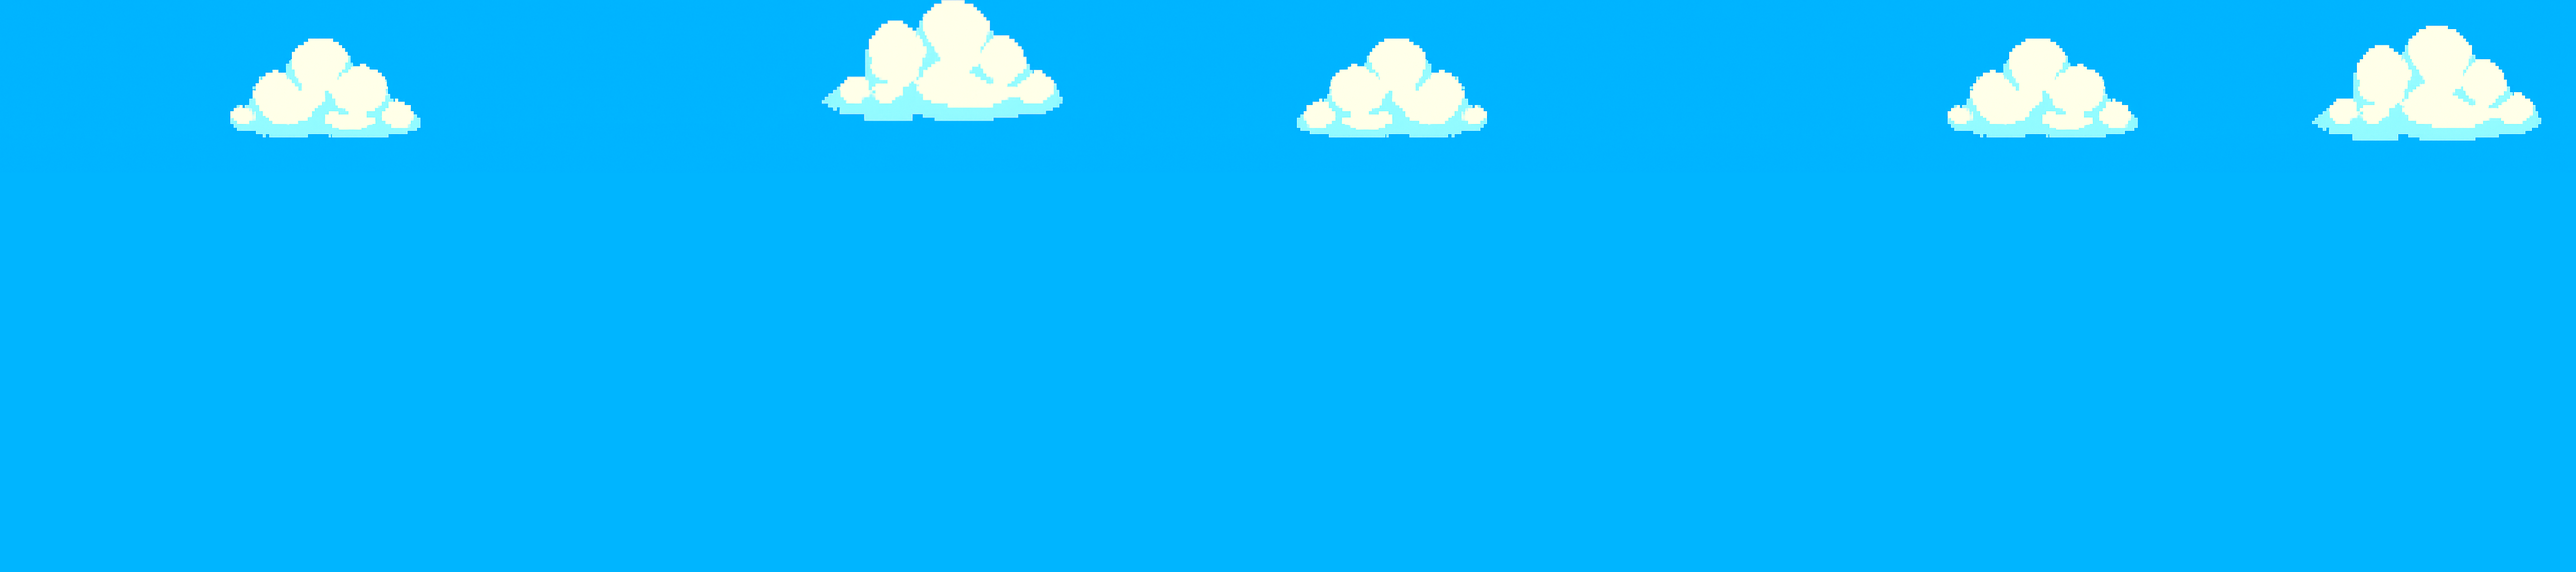
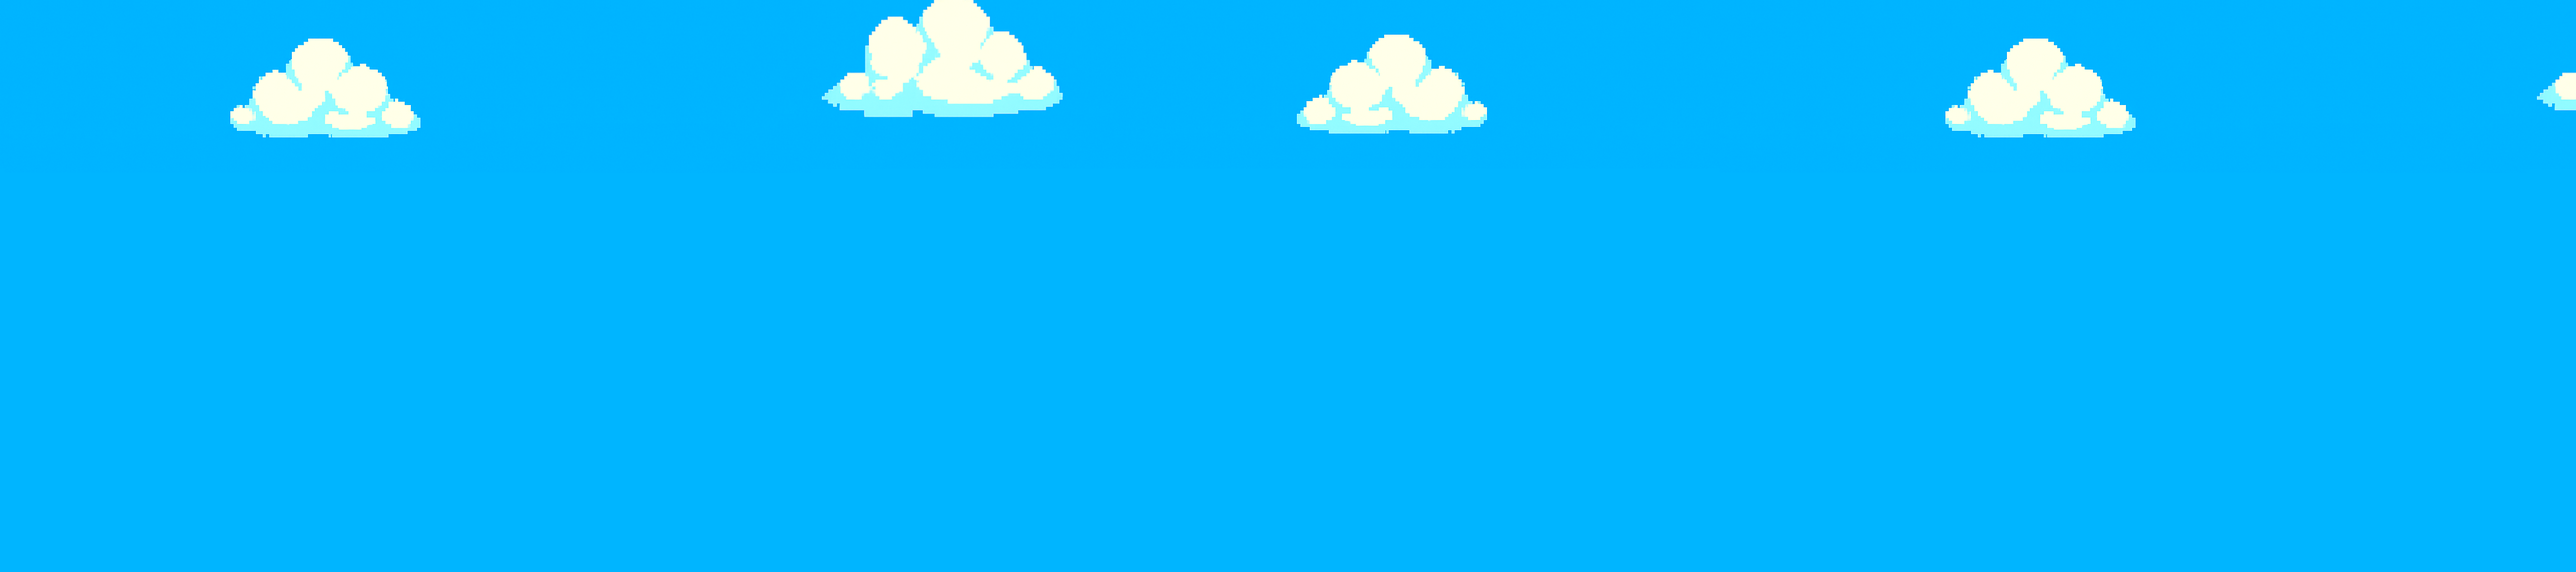
Character sprite added, along with rudimentary movement

diff --git a/main.cpp b/main.cpp
@@ -5,11 +5,14 @@
 
 int main()
 {
-    auto window = sf::RenderWindow(sf::VideoMode({1536u, 1024u}), "CMake SFML Project");
+    auto window = sf::RenderWindow(sf::VideoMode({ 1536u, 1024u }), "Flying Robot");
     window.setFramerateLimit(144);
 
     sf::Texture texture_clouds("clouds.png");
     sf::Sprite sprite_clouds(texture_clouds);
+
+    sf::Texture texture_cloudsTwo("cloudsTwo.png");
+    sf::Sprite sprite_cloudsTwo(texture_cloudsTwo);
 
     sf::Texture texture_hills("hills.png");
     sf::Sprite sprite_hills(texture_hills);
@@ -20,11 +23,21 @@ int main()
     sf::Texture texture_teaRows("teaRows.png");
     sf::Sprite sprite_teaRows(texture_teaRows);
 
+
+    sf::Texture texture_robotDefault("robotDefault.png");
+    sf::Sprite sprite_robotDefault(texture_robotDefault);
+
+    sf::Texture texture_robotJump("robotJump.png");
+    sf::Sprite sprite_robotJump(texture_robotJump);
+
     sf::Clock clock;
 
     // find a way to get all offsets done by a function
     float cloudOffSet{ 0.0f };
-    float cloudSpeed(25.0f);
+    float cloudSpeed(1.0f);
+
+    float cloudTwoOffSet{ 0.0f };
+    float cloudTwoSpeed(1.0f);
 
     float hillOffSet{ 0.0f };
     float hillSpeed(10.0f);
@@ -34,6 +47,10 @@ int main()
 
     float groundBarOffSet{ 0.0f };
     float groundBarSpeed(100.0f);
+
+    auto robotPosition{ sf::Vector2f(300.f, 700.f) };
+    auto robotSpeed{ 300.f };
+    auto robotVelocity{ 0.f };
 
     while (window.isOpen())
     {
@@ -53,12 +70,24 @@ int main()
         
         if (cloudOffSet > -3072.0f)
         {
-            cloudOffSet -= 1.0f;
+            cloudOffSet -= 0.50f;
             std::cout << cloudOffSet;
         }
         
         if (cloudOffSet <= -3072.0f)
             cloudOffSet = 0;
+
+        cloudTwoOffSet -= cloudTwoSpeed * deltaTime;
+
+        if (cloudTwoOffSet > -3072.0f)
+        {
+            cloudTwoOffSet -= 0.750f;
+            std::cout << cloudTwoOffSet;
+        }
+
+        if (cloudTwoOffSet <= -3072.0f)
+            cloudTwoOffSet = 0;
+
         //end cloud function
 
         // hill function
@@ -101,18 +130,40 @@ int main()
         if (groundBarOffSet <= -3072.0f)
             groundBarOffSet = 0;
         // end ground function
-            
+        
+        // robot function
+        robotVelocity = robotSpeed * deltaTime;
+        
 
         sprite_clouds.setPosition(sf::Vector2f(cloudOffSet, 0));
+        sprite_cloudsTwo.setPosition(sf::Vector2f(cloudTwoOffSet, 0));
         sprite_hills.setPosition(sf::Vector2f(hillOffSet, 0));
         sprite_teaRows.setPosition(sf::Vector2f(teaRowOffSet, 0));
         sprite_groundBar.setPosition(sf::Vector2f(groundBarOffSet, 0));
+        sprite_robotDefault.setPosition(sf::Vector2f(robotPosition));
+        sprite_robotJump.setPosition(sf::Vector2f(robotPosition));
 
         window.clear();
         window.draw(sprite_clouds);
+        window.draw(sprite_cloudsTwo);
+       
         window.draw(sprite_hills);
         window.draw(sprite_teaRows);
         window.draw(sprite_groundBar);
+        //Jumping check
+        if (sf::Keyboard::isKeyPressed(sf::Keyboard::Key::W))
+        {
+            robotPosition.y -= robotVelocity;
+            window.draw(sprite_robotJump);
+        
+        }
+        else
+        {
+            robotPosition.y += (1.25f * robotVelocity);
+            window.draw(sprite_robotDefault);
+        }
+
+
         window.display();
     }
 }
